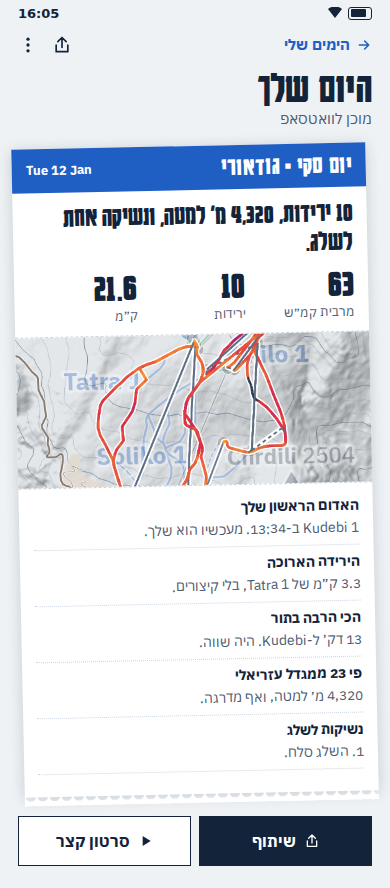
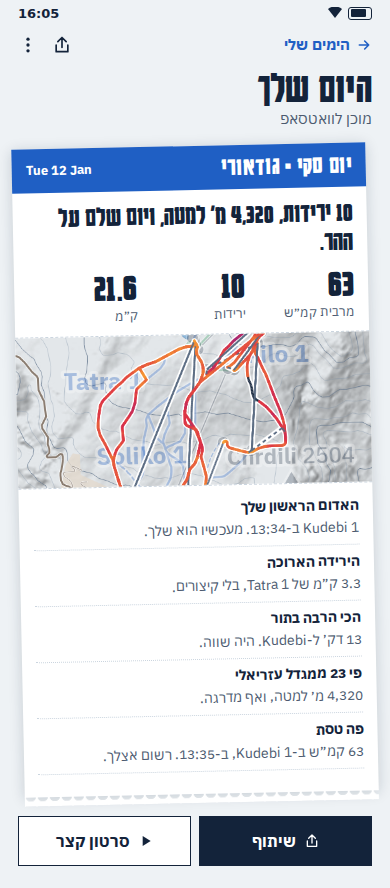
סבב 29, שורה ט: לוחות הטון עם הנוסחים מטיוטת סשן התוכן (קנבס גרסה 92)
Claude-Session: https://claude.ai/code/session_018WEovaqXC4kNabe89Cnwoj

diff --git a/design/canvas/project/R29-0-Decide.dc.html b/design/canvas/project/R29-0-Decide.dc.html
@@ -12,7 +12,7 @@
 body{margin:0;background:#EEF2F5}
 </style>
 </helmet>
-<div style="width: 600px; height: 1340px; box-sizing: border-box; padding: 28px; background: #FFFFFF; color: #13233A; font-family: 'IBM Plex Sans Hebrew', system-ui, sans-serif; direction: rtl; border-top: 8px solid #1F5FC4"><h1 style="margin: 0; font-family: Karantina, 'Arial Narrow', sans-serif; font-size: 48px; line-height: 1">מה לאשר בסבב 29</h1><p style="margin: 8px 0 12px; font-size: 14.5px; line-height: 1.55; color: #4B5A6F">יום הגלישה (החלטה 76): הקלטה, מהירות והמסלול היומי, באנדרואיד ובאייפון, ביום ובלילה, בעברית ובאנגלית, מעל צילומי שתי האפליקציות. יום לדוגמה: קווים וגבהים אמיתיים, שעות ומהירויות מומצאות.</p><ol style="margin: 0; padding: 0; list-style: none"><li style="display: flex; flex-direction: column; gap: 2px; padding: 9px 0; border-top: 1px solid #CBD5DF"><b style="font-size: 16px">ההמלצה</b><span style="font-size: 14px; line-height: 1.55; color: #4B5A6F"><b style="color: #13233A">הכל כמו בלוחות:</b> שלט &quot;מתחילים יום&quot; בדף הבית וכפתור במפה, הצעה אחת כשנפתחים בתוך האתר, מסך חי עם המהירות גדולה ו&quot;על מה אני עכשיו&quot;, התראה קבועה ו-Live Activity, ובסוף היום סיכום, מפה לפי מהירות, ציר זמן, צפייה חוזרת, כרטיס לכל ירידה, שיאים ותמונה לשיתוף.</span></li><li style="display: flex; flex-direction: column; gap: 2px; padding: 9px 0; border-top: 1px solid #CBD5DF"><b style="font-size: 16px">1. איפה מתחילים</b><span style="font-size: 14px; line-height: 1.55; color: #4B5A6F">שלט אדום חדש בראש עמוד השלטים (ההמלצה: הכי בולט ביום סקי), או רק כפתור במפה? השלט מופיע רק בימי הטיול ובתוך האתר.</span></li><li style="display: flex; flex-direction: column; gap: 2px; padding: 9px 0; border-top: 1px solid #CBD5DF"><b style="font-size: 16px">2. ההצעה בתוך האתר</b><span style="font-size: 14px; line-height: 1.55; color: #4B5A6F">הצעה אחת ליום, עם &quot;לא עכשיו&quot; (ההמלצה), או בלי הצעה בכלל?</span></li><li style="display: flex; flex-direction: column; gap: 2px; padding: 9px 0; border-top: 1px solid #CBD5DF"><b style="font-size: 16px">3. צבע המהירות</b><span style="font-size: 14px; line-height: 1.55; color: #4B5A6F">סולם משלו, צהוב עד סגול (ההמלצה), כדי שלא יתבלבל עם צבעי המסלולים והשיפוע.</span></li><li style="display: flex; flex-direction: column; gap: 2px; padding: 9px 0; border-top: 1px solid #CBD5DF"><b style="font-size: 16px">4. התמונה לשיתוף</b><span style="font-size: 14px; line-height: 1.55; color: #4B5A6F">בלי שם ובלי חשבון (ההמלצה). עם שם כשיהיה שיתוף לקבוצה (שלב הבא).</span></li><li style="display: flex; flex-direction: column; gap: 2px; padding: 9px 0; border-top: 1px solid #CBD5DF"><b style="font-size: 16px">5. סיום</b><span style="font-size: 14px; line-height: 1.55; color: #4B5A6F">&quot;סיום&quot; שואל לפני שעוצר (ההמלצה), ובאנדרואיד גם בהתראה.</span></li><li style="display: flex; flex-direction: column; gap: 2px; padding: 9px 0; border-top: 1px solid #CBD5DF"><b style="font-size: 16px">6. &quot;פה נפלת&quot;</b><span style="font-size: 14px; line-height: 1.55; color: #4B5A6F">כשאלה משועשעת בציר הזמן, עם &quot;לא נפלתי&quot; שמוחק (ההמלצה), או בלי בכלל? ניחוש לפי תנועת הטלפון, לא ודאות ולא כלי בטיחות.</span></li><li style="display: flex; flex-direction: column; gap: 2px; padding: 9px 0; border-top: 1px solid #CBD5DF"><b style="font-size: 16px">7. על הרכבל</b><span style="font-size: 14px; line-height: 1.55; color: #4B5A6F">סיכום הירידה שהרגע עשית בהתראה וב-Live Activity כשעולים לרכבל (ההמלצה). באייפון Live Activity אחרי סקירת שרשרת השחרור.</span></li><li style="display: flex; flex-direction: column; gap: 2px; padding: 9px 0; border-top: 1px solid #CBD5DF"><b style="font-size: 16px">8. היום שלך</b><span style="font-size: 14px; line-height: 1.55; color: #4B5A6F">כרטיס אחד כמו כרטיס הטיסה, עם ציוני דרך מול עצמך בלבד, בלי דירוג (ההמלצה). &quot;סרטון קצר&quot; מהצפייה החוזרת לשיתוף.</span></li><li style="display: flex; flex-direction: column; gap: 2px; padding: 9px 0; border-top: 1px solid #CBD5DF"><b style="font-size: 16px">9. ירידה אחת</b><span style="font-size: 14px; line-height: 1.55; color: #4B5A6F">&quot;מודדים ירידה&quot; בפאנל המסלול ובמפה, נעצר לבד בתחתית, וכרטיס מיד (ההמלצה).</span></li><li style="display: flex; flex-direction: column; gap: 2px; padding: 9px 0; border-top: 1px solid #CBD5DF"><b style="font-size: 16px">10. מפת היום</b><span style="font-size: 14px; line-height: 1.55; color: #4B5A6F"><b style="color: #13233A">מפה משלה (ההמלצה):</b> בסיכום, בציר הזמן ובצפייה החוזרת המסלולים באפור עמום, ורק השובל צבוע לפי מהירות; על המפה הראשית שני סולמות צבע נלחמים זה בזה. בזמן ההקלטה השובל בכחול אחד על המפה הרגילה.</span></li><li style="display: flex; flex-direction: column; gap: 2px; padding: 9px 0; border-top: 1px solid #CBD5DF"><b style="font-size: 16px">11. הטון של &quot;הסיפור של היום&quot;</b><span style="font-size: 14px; line-height: 1.55; color: #4B5A6F">שובב ולא לועג (ההמלצה): &quot;נשיקות לשלג: 1. השלג סלח.&quot; אף פעם לא על הרמה או על הגוף, ובלי השוואה לאחרים. או יבש, או נתונים בלבד. הטקסט נכתב לכל שפה לחוד.</span></li><li style="display: flex; flex-direction: column; gap: 2px; padding: 9px 0; border-top: 1px solid #CBD5DF"><b style="font-size: 16px">12. יום לדוגמה</b><span style="font-size: 14px; line-height: 1.55; color: #4B5A6F">יום אחד לדוגמה ב&quot;הימים שלי&quot; עד היום האמיתי הראשון, מסומן ונפתח כמו יום אמיתי, ואחר כך בשורה אחת בתחתית עם &quot;הסרה&quot; (ההמלצה: כן). עוזר למשתמש חדש לפני העונה, ולסוקרים של אפל וגוגל, שלא נמצאים בגודאורי.</span></li><li style="display: flex; flex-direction: column; gap: 2px; padding: 9px 0; border-top: 1px solid #CBD5DF"><b style="font-size: 16px">אחרי האישור</b><span style="font-size: 14px; line-height: 1.55; color: #4B5A6F">סשני האנדרואיד והאייפון מממשים במקביל, אחרי סקירת הארכיטקט ושורת הפרטיות. שום דבר לא שונה באפליקציות.</span></li></ol></div>
+<div style="width: 600px; height: 1340px; box-sizing: border-box; padding: 28px; background: #FFFFFF; color: #13233A; font-family: 'IBM Plex Sans Hebrew', system-ui, sans-serif; direction: rtl; border-top: 8px solid #1F5FC4"><h1 style="margin: 0; font-family: Karantina, 'Arial Narrow', sans-serif; font-size: 48px; line-height: 1">מה לאשר בסבב 29</h1><p style="margin: 8px 0 12px; font-size: 14.5px; line-height: 1.55; color: #4B5A6F">יום הגלישה (החלטה 76): הקלטה, מהירות והמסלול היומי, באנדרואיד ובאייפון, ביום ובלילה, בעברית ובאנגלית, מעל צילומי שתי האפליקציות. יום לדוגמה: קווים וגבהים אמיתיים, שעות ומהירויות מומצאות.</p><ol style="margin: 0; padding: 0; list-style: none"><li style="display: flex; flex-direction: column; gap: 2px; padding: 9px 0; border-top: 1px solid #CBD5DF"><b style="font-size: 16px">ההמלצה</b><span style="font-size: 14px; line-height: 1.55; color: #4B5A6F"><b style="color: #13233A">הכל כמו בלוחות:</b> שלט &quot;מתחילים יום&quot; בדף הבית וכפתור במפה, הצעה אחת כשנפתחים בתוך האתר, מסך חי עם המהירות גדולה ו&quot;על מה אני עכשיו&quot;, התראה קבועה ו-Live Activity, ובסוף היום סיכום, מפה לפי מהירות, ציר זמן, צפייה חוזרת, כרטיס לכל ירידה, שיאים ותמונה לשיתוף.</span></li><li style="display: flex; flex-direction: column; gap: 2px; padding: 9px 0; border-top: 1px solid #CBD5DF"><b style="font-size: 16px">1. איפה מתחילים</b><span style="font-size: 14px; line-height: 1.55; color: #4B5A6F">שלט אדום חדש בראש עמוד השלטים (ההמלצה: הכי בולט ביום סקי), או רק כפתור במפה? השלט מופיע רק בימי הטיול ובתוך האתר.</span></li><li style="display: flex; flex-direction: column; gap: 2px; padding: 9px 0; border-top: 1px solid #CBD5DF"><b style="font-size: 16px">2. ההצעה בתוך האתר</b><span style="font-size: 14px; line-height: 1.55; color: #4B5A6F">הצעה אחת ליום, עם &quot;לא עכשיו&quot; (ההמלצה), או בלי הצעה בכלל?</span></li><li style="display: flex; flex-direction: column; gap: 2px; padding: 9px 0; border-top: 1px solid #CBD5DF"><b style="font-size: 16px">3. צבע המהירות</b><span style="font-size: 14px; line-height: 1.55; color: #4B5A6F">סולם משלו, צהוב עד סגול (ההמלצה), כדי שלא יתבלבל עם צבעי המסלולים והשיפוע.</span></li><li style="display: flex; flex-direction: column; gap: 2px; padding: 9px 0; border-top: 1px solid #CBD5DF"><b style="font-size: 16px">4. התמונה לשיתוף</b><span style="font-size: 14px; line-height: 1.55; color: #4B5A6F">בלי שם ובלי חשבון (ההמלצה). עם שם כשיהיה שיתוף לקבוצה (שלב הבא).</span></li><li style="display: flex; flex-direction: column; gap: 2px; padding: 9px 0; border-top: 1px solid #CBD5DF"><b style="font-size: 16px">5. סיום</b><span style="font-size: 14px; line-height: 1.55; color: #4B5A6F">&quot;סיום&quot; שואל לפני שעוצר (ההמלצה), ובאנדרואיד גם בהתראה.</span></li><li style="display: flex; flex-direction: column; gap: 2px; padding: 9px 0; border-top: 1px solid #CBD5DF"><b style="font-size: 16px">6. &quot;פה נפלת&quot;</b><span style="font-size: 14px; line-height: 1.55; color: #4B5A6F">כשאלה משועשעת בציר הזמן, עם &quot;לא נפלתי&quot; שמוחק (ההמלצה), או בלי בכלל? ניחוש לפי תנועת הטלפון, לא ודאות ולא כלי בטיחות.</span></li><li style="display: flex; flex-direction: column; gap: 2px; padding: 9px 0; border-top: 1px solid #CBD5DF"><b style="font-size: 16px">7. על הרכבל</b><span style="font-size: 14px; line-height: 1.55; color: #4B5A6F">סיכום הירידה שהרגע עשית בהתראה וב-Live Activity כשעולים לרכבל (ההמלצה). באייפון Live Activity אחרי סקירת שרשרת השחרור.</span></li><li style="display: flex; flex-direction: column; gap: 2px; padding: 9px 0; border-top: 1px solid #CBD5DF"><b style="font-size: 16px">8. היום שלך</b><span style="font-size: 14px; line-height: 1.55; color: #4B5A6F">כרטיס אחד כמו כרטיס הטיסה, עם ציוני דרך מול עצמך בלבד, בלי דירוג (ההמלצה). &quot;סרטון קצר&quot; מהצפייה החוזרת לשיתוף.</span></li><li style="display: flex; flex-direction: column; gap: 2px; padding: 9px 0; border-top: 1px solid #CBD5DF"><b style="font-size: 16px">9. ירידה אחת</b><span style="font-size: 14px; line-height: 1.55; color: #4B5A6F">&quot;מודדים ירידה&quot; בפאנל המסלול ובמפה, נעצר לבד בתחתית, וכרטיס מיד (ההמלצה).</span></li><li style="display: flex; flex-direction: column; gap: 2px; padding: 9px 0; border-top: 1px solid #CBD5DF"><b style="font-size: 16px">10. מפת היום</b><span style="font-size: 14px; line-height: 1.55; color: #4B5A6F"><b style="color: #13233A">מפה משלה (ההמלצה):</b> בסיכום, בציר הזמן ובצפייה החוזרת המסלולים באפור עמום, ורק השובל צבוע לפי מהירות; על המפה הראשית שני סולמות צבע נלחמים זה בזה. בזמן ההקלטה השובל בכחול אחד על המפה הרגילה.</span></li><li style="display: flex; flex-direction: column; gap: 2px; padding: 9px 0; border-top: 1px solid #CBD5DF"><b style="font-size: 16px">11. הטון של &quot;הסיפור של היום&quot;</b><span style="font-size: 14px; line-height: 1.55; color: #4B5A6F">שובב ולא לועג (ההמלצה): &quot;10 ירידות, 4,320 מ׳ למטה, ויום שלם על ההר.&quot; אף פעם לא על הרמה או על הגוף, ובלי השוואה לאחרים. או יבש, או נתונים בלבד. הטקסט נכתב לכל שפה לחוד.</span></li><li style="display: flex; flex-direction: column; gap: 2px; padding: 9px 0; border-top: 1px solid #CBD5DF"><b style="font-size: 16px">12. יום לדוגמה</b><span style="font-size: 14px; line-height: 1.55; color: #4B5A6F">יום אחד לדוגמה ב&quot;הימים שלי&quot; עד היום האמיתי הראשון, מסומן ונפתח כמו יום אמיתי, ואחר כך בשורה אחת בתחתית עם &quot;הסרה&quot; (ההמלצה: כן). עוזר למשתמש חדש לפני העונה, ולסוקרים של אפל וגוגל, שלא נמצאים בגודאורי.</span></li><li style="display: flex; flex-direction: column; gap: 2px; padding: 9px 0; border-top: 1px solid #CBD5DF"><b style="font-size: 16px">אחרי האישור</b><span style="font-size: 14px; line-height: 1.55; color: #4B5A6F">סשני האנדרואיד והאייפון מממשים במקביל, אחרי סקירת הארכיטקט ושורת הפרטיות. שום דבר לא שונה באפליקציות.</span></li></ol></div>
 </x-dc>
 <script type="text/x-dc" data-dc-script data-props='{"$preview":{"width":600,"height":1340}}'>
 class Component extends DCLogic {

diff --git a/design/canvas/project/R29-Tone.dc.html b/design/canvas/project/R29-Tone.dc.html
@@ -12,7 +12,7 @@
 body{margin:0;background:#EEF2F5}
 </style>
 </helmet>
-<div style="width: 1696px; height: 1119px; box-sizing: border-box; padding: 20px; display: flex; flex-direction: column; gap: 12px; background: #FFFFFF; color: #13233A; font-family: 'IBM Plex Sans Hebrew', system-ui, sans-serif; direction: rtl"><div style="display: flex; flex-direction: column; gap: 6px; height: 118px; max-width: 1656px"><b style="font-family: Karantina, 'Arial Narrow', sans-serif; font-size: 34px; line-height: 1">ט. הטון של &quot;הסיפור של היום&quot;</b><span style="font-size: 14px; line-height: 1.45; color: #4B5A6F">אותו יום לדוגמה, אותם רגעים, בשלושה טונים. מנוע הרגעים בוחר מה קרה; הטקסט בא מהטון שייבחר. א (מומלץ): שובב ולא לועג, אף פעם לא על הרמה או על הגוף. ב: יבש, משפטים קצרים בלי בדיחה. ג: נתונים בלבד, בלי רגעים. הומור נכתב לכל שפה לחוד, לא מתורגם.</span></div><div style="display: flex; gap: 28px; align-items: flex-start"><div style="display: flex; flex-direction: column; gap: 18px; width: 390px"><b style="height: 16px; font-size: 15px; color: #1F5FC4">אנדרואיד · א. שובב ולא לועג (מומלץ)</b><img src="/_blob/cafb43fee25daaa408f83695725dc61d" alt="אנדרואיד · א. שובב ולא לועג (מומלץ)" style="display: block; width: 390px; height: 888px; box-shadow: 0 0 0 1px #CBD5DF"></div><div style="display: flex; flex-direction: column; gap: 18px; width: 390px"><b style="height: 16px; font-size: 15px; color: #1F5FC4">אנדרואיד · ב. יבש</b><img src="/_blob/f72fadabc180ec8d7d815fda6a8bf681" alt="אנדרואיד · ב. יבש" style="display: block; width: 390px; height: 860px; box-shadow: 0 0 0 1px #CBD5DF"></div><div style="display: flex; flex-direction: column; gap: 18px; width: 390px"><b style="height: 16px; font-size: 15px; color: #1F5FC4">אנדרואיד · ג. נתונים בלבד</b><img src="/_blob/c52aae78a7034a2197b1ad902aec9789" alt="אנדרואיד · ג. נתונים בלבד" style="display: block; width: 390px; height: 668px; box-shadow: 0 0 0 1px #CBD5DF"></div><div style="display: flex; flex-direction: column; gap: 18px; width: 402px"><b style="height: 16px; font-size: 15px; color: #1F5FC4">אייפון · א. באנגלית, נכתב מחדש</b><img src="/_blob/94ab1b3fde818244c04b48770d151c6b" alt="אייפון · א. באנגלית, נכתב מחדש" style="display: block; width: 402px; height: 915px; box-shadow: 0 0 0 1px #CBD5DF"></div></div></div>
+<div style="width: 1696px; height: 1119px; box-sizing: border-box; padding: 20px; display: flex; flex-direction: column; gap: 12px; background: #FFFFFF; color: #13233A; font-family: 'IBM Plex Sans Hebrew', system-ui, sans-serif; direction: rtl"><div style="display: flex; flex-direction: column; gap: 6px; height: 118px; max-width: 1656px"><b style="font-family: Karantina, 'Arial Narrow', sans-serif; font-size: 34px; line-height: 1">ט. הטון של &quot;הסיפור של היום&quot;</b><span style="font-size: 14px; line-height: 1.45; color: #4B5A6F">אותו יום לדוגמה, אותם רגעים, בשלושה טונים. מנוע הרגעים בוחר מה קרה; הטקסט בא מהטון שייבחר. א (מומלץ): שובב ולא לועג, אף פעם לא על הרמה או על הגוף. ב: יבש, משפטים קצרים בלי בדיחה. ג: נתונים בלבד, בלי רגעים. הנוסחים הם הטיוטה של סשן התוכן (docs/handoff/2026-10-30-dayrec-moments-copy), הגרסה הראשונה של כל שורה, בעברית ובאנגלית; גם רוסית וגאורגית שם. הנפילה היא שאלה ולא נכנסת לכרטיס לשיתוף, ולכן במקומה &quot;פה טסת&quot;, שמסתיים ב&quot;רשום אצלך&quot; בלי שבח למהירות.</span></div><div style="display: flex; gap: 28px; align-items: flex-start"><div style="display: flex; flex-direction: column; gap: 18px; width: 390px"><b style="height: 16px; font-size: 15px; color: #1F5FC4">אנדרואיד · א. שובב ולא לועג (מומלץ)</b><img src="/_blob/af175ea5ba8dbfa349c388b4f54264fc" alt="אנדרואיד · א. שובב ולא לועג (מומלץ)" style="display: block; width: 390px; height: 888px; box-shadow: 0 0 0 1px #CBD5DF"></div><div style="display: flex; flex-direction: column; gap: 18px; width: 390px"><b style="height: 16px; font-size: 15px; color: #1F5FC4">אנדרואיד · ב. יבש</b><img src="/_blob/e2cd5ec03e7fdd5d685761db6a65a4bc" alt="אנדרואיד · ב. יבש" style="display: block; width: 390px; height: 860px; box-shadow: 0 0 0 1px #CBD5DF"></div><div style="display: flex; flex-direction: column; gap: 18px; width: 390px"><b style="height: 16px; font-size: 15px; color: #1F5FC4">אנדרואיד · ג. נתונים בלבד</b><img src="/_blob/2944e6fc65a9a4fafa8ff91fbffe9a66" alt="אנדרואיד · ג. נתונים בלבד" style="display: block; width: 390px; height: 713px; box-shadow: 0 0 0 1px #CBD5DF"></div><div style="display: flex; flex-direction: column; gap: 18px; width: 402px"><b style="height: 16px; font-size: 15px; color: #1F5FC4">אייפון · א. באנגלית, נכתב מחדש</b><img src="/_blob/e44669f8b444370eaebf5d3bfbab80bd" alt="אייפון · א. באנגלית, נכתב מחדש" style="display: block; width: 402px; height: 915px; box-shadow: 0 0 0 1px #CBD5DF"></div></div></div>
 </x-dc>
 <script type="text/x-dc" data-dc-script data-props='{"$preview":{"width":1696,"height":1119}}'>
 class Component extends DCLogic {

diff --git a/design/round29/build.py b/design/round29/build.py
@@ -48,7 +48,7 @@ BOARDS = [
      [(A + ' · בפאנל המסלול', ['g-and-start']), (I + ' · במפה, English', ['g-ios-start-en']), (A + ' · באמצע הירידה', ['g-and-live']), (A + ' · הכרטיס בתחתית', ['g-and-card']), (I + ' · הכרטיס, לילה, English', ['g-ios-card-night-en'])]),
     ('h', 'DayMap', 'ח. מפת היום: על המפה הראשית, או מפה משלה', 'א: השובל מעל המפה הראשית, עם כל צבעי המסלולים, ושני סולמות צבע מתנגשים. ב (מומלץ): אותו הר, המסלולים באפור עמום כמו בסבב 25, ורק השובל בצבע לפי מהירות. בזמן ההקלטה השובל בכחול אחד על המפה הרגילה (ב.), כדי שהמסלולים יישארו קריאים בהר.',
      [(A + ' · א. על המפה הראשית', ['h-and-main']), (A + ' · ב. מפת היום', ['h-and-day']), (I + ' · ב. לילה, English', ['h-ios-day-night-en'])]),
-    ('i', 'Tone', 'ט. הטון של "הסיפור של היום"', 'אותו יום לדוגמה, אותם רגעים, בשלושה טונים. מנוע הרגעים בוחר מה קרה; הטקסט בא מהטון שייבחר. א (מומלץ): שובב ולא לועג, אף פעם לא על הרמה או על הגוף. ב: יבש, משפטים קצרים בלי בדיחה. ג: נתונים בלבד, בלי רגעים. הומור נכתב לכל שפה לחוד, לא מתורגם.',
+    ('i', 'Tone', 'ט. הטון של "הסיפור של היום"', 'אותו יום לדוגמה, אותם רגעים, בשלושה טונים. מנוע הרגעים בוחר מה קרה; הטקסט בא מהטון שייבחר. א (מומלץ): שובב ולא לועג, אף פעם לא על הרמה או על הגוף. ב: יבש, משפטים קצרים בלי בדיחה. ג: נתונים בלבד, בלי רגעים. הנוסחים הם הטיוטה של סשן התוכן (docs/handoff/2026-10-30-dayrec-moments-copy), הגרסה הראשונה של כל שורה, בעברית ובאנגלית; גם רוסית וגאורגית שם. הנפילה היא שאלה ולא נכנסת לכרטיס לשיתוף, ולכן במקומה "פה טסת", שמסתיים ב"רשום אצלך" בלי שבח למהירות.',
      [(A + ' · א. שובב ולא לועג (מומלץ)', ['i-and-tone-play']), (A + ' · ב. יבש', ['i-and-tone-dry']), (A + ' · ג. נתונים בלבד', ['i-and-tone-data']), (I + ' · א. באנגלית, נכתב מחדש', ['i-ios-tone-play-en'])]),
 ]
 P31 = [
@@ -161,7 +161,7 @@ DECIDE = [
     ('8. היום שלך', 'כרטיס אחד כמו כרטיס הטיסה, עם ציוני דרך מול עצמך בלבד, בלי דירוג (ההמלצה). "סרטון קצר" מהצפייה החוזרת לשיתוף.'),
     ('9. ירידה אחת', '"מודדים ירידה" בפאנל המסלול ובמפה, נעצר לבד בתחתית, וכרטיס מיד (ההמלצה).'),
     ('10. מפת היום', '**מפה משלה (ההמלצה):** בסיכום, בציר הזמן ובצפייה החוזרת המסלולים באפור עמום, ורק השובל צבוע לפי מהירות; על המפה הראשית שני סולמות צבע נלחמים זה בזה. בזמן ההקלטה השובל בכחול אחד על המפה הרגילה.'),
-    ('11. הטון של "הסיפור של היום"', 'שובב ולא לועג (ההמלצה): "נשיקות לשלג: 1. השלג סלח." אף פעם לא על הרמה או על הגוף, ובלי השוואה לאחרים. או יבש, או נתונים בלבד. הטקסט נכתב לכל שפה לחוד.'),
+    ('11. הטון של "הסיפור של היום"', 'שובב ולא לועג (ההמלצה): "10 ירידות, 4,320 מ׳ למטה, ויום שלם על ההר." אף פעם לא על הרמה או על הגוף, ובלי השוואה לאחרים. או יבש, או נתונים בלבד. הטקסט נכתב לכל שפה לחוד.'),
     ('12. יום לדוגמה', 'יום אחד לדוגמה ב"הימים שלי" עד היום האמיתי הראשון, מסומן ונפתח כמו יום אמיתי, ואחר כך בשורה אחת בתחתית עם "הסרה" (ההמלצה: כן). עוזר למשתמש חדש לפני העונה, ולסוקרים של אפל וגוגל, שלא נמצאים בגודאורי.'),
     ('אחרי האישור', 'סשני האנדרואיד והאייפון מממשים במקביל, אחרי סקירת הארכיטקט ושורת הפרטיות. שום דבר לא שונה באפליקציות.'),
 ]

diff --git a/docs/STATUS.md b/docs/STATUS.md
@@ -394,6 +394,8 @@
 
 ## יומן
 
+- 30.10.2026: **קנבס גרסה 92: סבב 29, שורה ט, עם הנוסחים האמיתיים** (מעצב המוצר, לבקשת סשן התוכן). שלושת לוחות הטון והלוח באנגלית מציגים עכשיו את הגרסה הראשונה של כל שורה מהטיוטה (`docs/handoff/2026-10-30-dayrec-moments-copy/moments-copy.json`), כדי שפיני יבחר טון לפי הטקסט שייכנס. הנפילה היא שאלה ולא נכנסת לכרטיס לשיתוף, ולכן במקומה "פה טסת" ("רשום אצלך", בלי שבח למהירות). בטון "נתונים בלבד" הכותרות מעל המספרים מהטיוטה. ממתין לפיני (שאלה 11).
+
 - 30.10.2026: **תוכן ושפות: טיוטת הנוסחים לרגעי יום הגלישה** (לבקשת סשן המנהל; `docs/handoff/2026-10-30-dayrec-moments-copy/`). לכל מפתח של מנוע הרגעים, בשלושת הטונים (שובב ולא לועג, יבש, נתונים בלבד) ובארבע השפות, עם שתיים או שלוש גרסאות לכל שורה (לבחירה לפי `seed`) וצורות הרבים. "נפילה" תמיד שאלה עם "לא נפלתי", בלי עידוד למהירות ובלי השוואה בין אנשים. בדיקה משלה (פרמטרים, צורות רבים, מילים אסורות), 0 שגיאות. `i18n/strings.json` לא שונה. **הבא:** פיני בוחר טון (סבב 29, שאלה 11), ואז טון אחד עובר לקובץ השפות.
 
 - 30.10.2026: **יום הגלישה: נסיעה ברכב ומנוע הרגעים** (סשן אלגוריתם הייחוס, לבקשת סשן המנהל; הארכיטקט אישר את שניהם בתנאים, `docs/ARCHITECTURE.md`). **נסיעה:** קטע `drive` (ובחי `act: drive`) לפי הכבישים של `terrain.json` ומהירות של רכב, עם קצוות לשנייה; לא נכנס למהירות המרבית, לירידה, לאוף-פיסט ולנפילות; `analysis` עלה ל-2. שני מקרים חדשים (23), גבולות עד 2 שניות ואפס נסיעות שגויות; בהקלטות הציבוריות 12.6 ק"מ יצאו מ"מחוץ למסלולים". **מנוע הרגעים** (`tools/dayrec/moments.py`): מפתחות ופרמטרים בלי טקסט ("פה טסת", הירידה הארוכה, האדום הראשון, מסלולים חדשים, שיאים אישיים, כל הכחולים, התור, הירידה מול מגדל עזריאלי ועוד, נפילה כשאלה, אוף-פיסט); הסיפור, תמונת השיתוף (בלי נפילה ובלי קואורדינטות) והכרטיס על הרכבל מאותה פונקציה; היסטוריה אישית בלי מיקום. ערכי בדיקה מדויקים ב-`tools/fixtures/dayrec-moments.json`. **הבא:** האנדרואיד והאייפון; הנוסחים (`moment.*`) בקובץ השפות אחרי שפיני יחליט על הטון.
